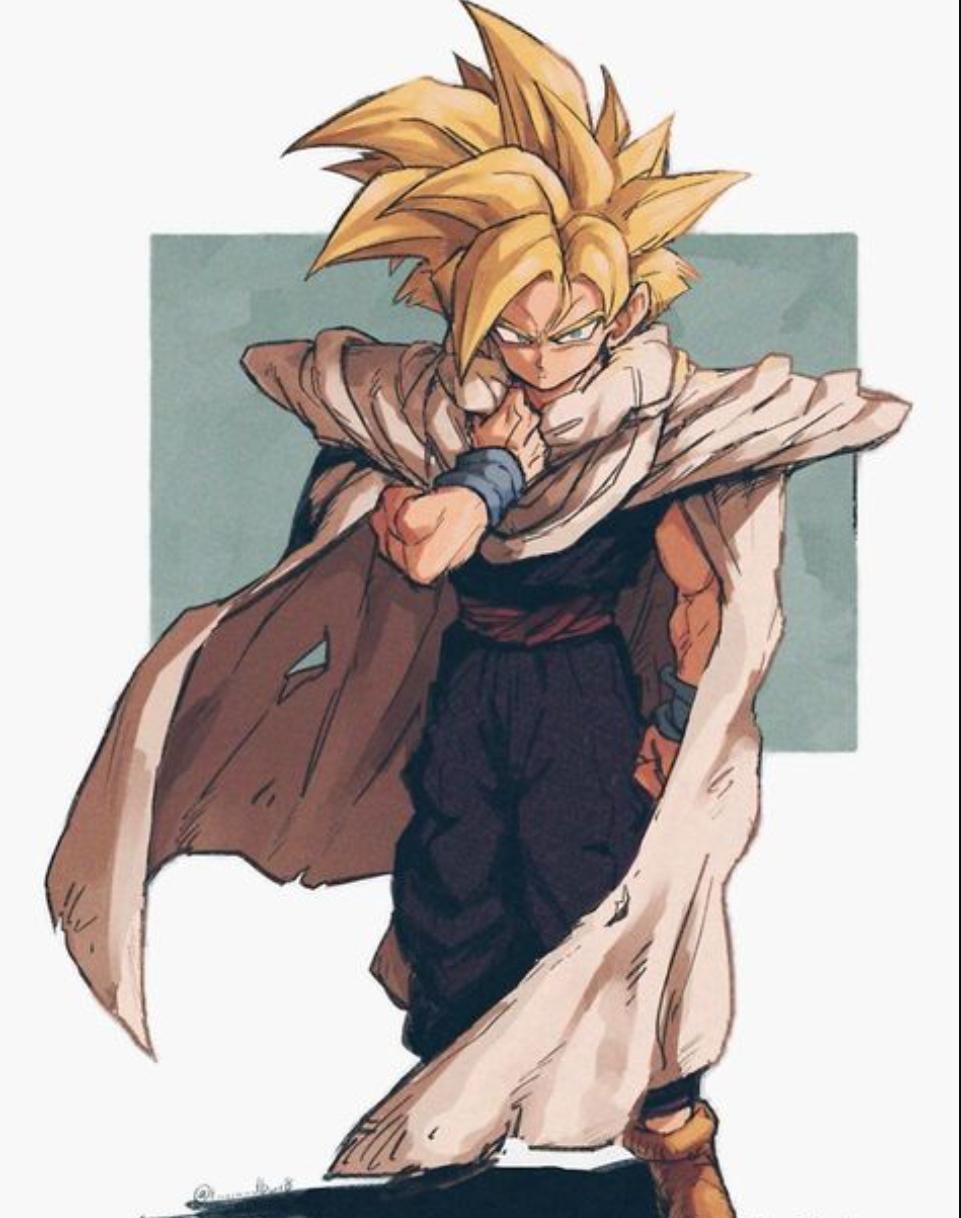
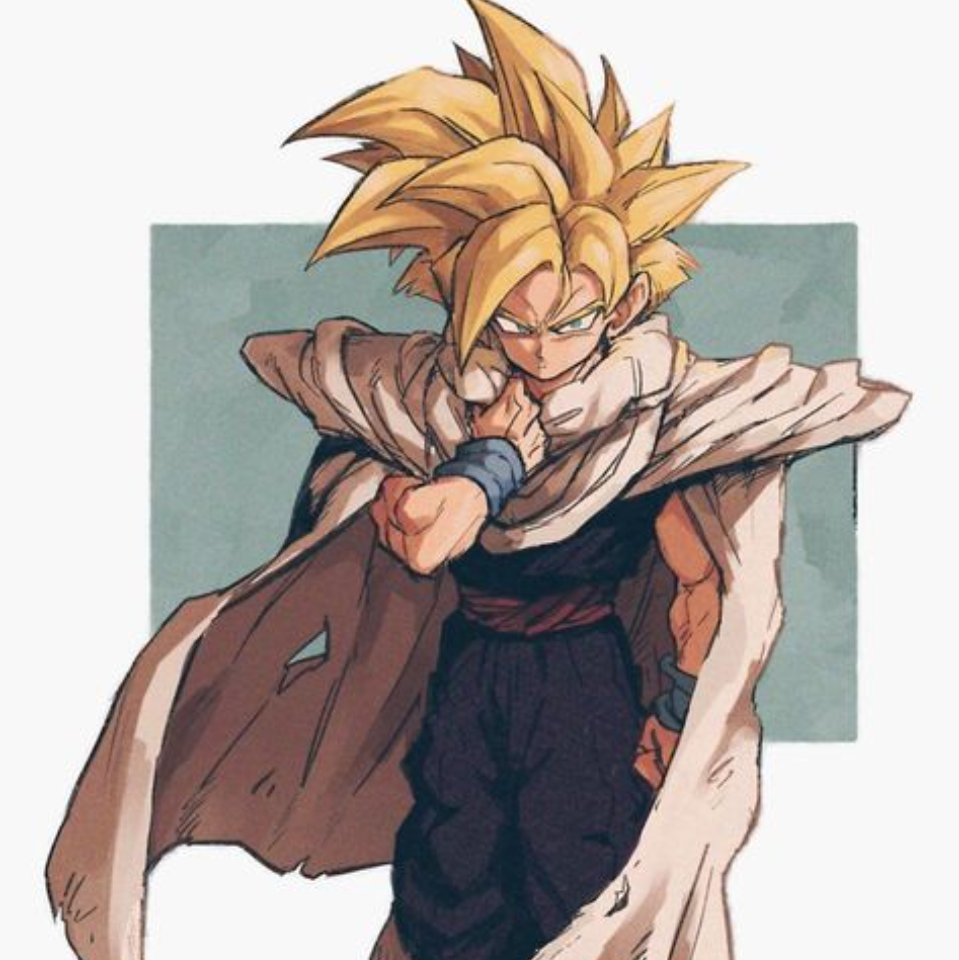
fixed the styling for some elements and normalized image sizes. Looking good.

diff --git a/src/components/FighterCard.vue b/src/components/FighterCard.vue
@@ -13,16 +13,16 @@ export default {
   },
   computed: {
     attackFillwidth() {
-      return (this.fighter.attack / 100) * 100;
+      return (this.fighter.attack);
     },
     defenseFillwidth() {
-      return (this.fighter.defense / 100) * 100;
+      return (this.fighter.defense);
     },
     hpFillwidth() {
-      return (this.fighter.hp / 100) * 100;
+      return (this.fighter.hp);
     },
     speedFillwidth() {
-      return (this.fighter.speed / 100) * 100;
+      return (this.fighter.speed);
     },
   }
 }
@@ -31,8 +31,8 @@ export default {
 <template>
   <div>
     <v-card class="fighter-card-player">
-      <img class="fighter-image centralized" :src="fighter.imageUrl" />
-      <div class="fight-details">
+      <img class="fighter-image" :src="fighter.imageUrl" />
+      <div class="fighter-details">
         <p class="title">{{ title }}</p>
         <p>Attack</p>
         <div class="gauge-bar">
@@ -69,17 +69,10 @@ export default {
 
 <style scoped>
 .battle-card-player {
-  padding: 13px 11px;
   height: 415px;
   flex-direction: column;
   border-radius: 7px;
-/*  box-shadow: $box-shadow;*/
-}
-
-.centralized {
-  display: flex;
-  align-items: center;
-  justify-content: center;
+  box-shadow: -2px 3px 10px lightblue;
 }
 
 .title {
@@ -90,11 +83,12 @@ export default {
 }
 
 .fighter-image {
-  width: 360px;
+  width: 100%;
 }
 
 .fighter-details {
   font-size: 14px;
+  padding: 14px;
 }
 
 .gauge-bar {
@@ -115,15 +109,4 @@ export default {
   left: 0;
 }
 
-/*.greetings h1,
-.greetings h3 {
-  text-align: center;
-}
-
-@media (min-width: 1024px) {
-  .greetings h1,
-  .greetings h3 {
-    text-align: left;
-  }
-}*/
 </style>

diff --git a/src/pages/DragonballFight.vue b/src/pages/DragonballFight.vue
@@ -16,7 +16,7 @@
         :class="[{ inactive: !selectedFighterId }]"
         @click="startFight"
       >
-        Start Fight
+        <p id="btn-content">Start Fight</p>
       </v-btn>
       <FighterCard title="Computer" :fighter="computerFighter" />
     </div>
@@ -120,7 +120,7 @@ export default {
   flex-direction: column;
   gap: 35px;
   margin: 0 auto;
-  max-width: 814px;
+  max-width: 100%;
 }
 
 .main-title {
@@ -144,15 +144,14 @@ export default {
   font-size: 18px;
   line-height: 21px;
   text-transform: capitalize;
-  padding: 12px 30px;
-/*  box-shadow: $box-shadow-button;*/
+  box-shadow: 0px 2px 2px whitesmoke;
   pointer-events: visible;
-  height: 45px;
-  background-color: darkblue;
+  background-color: #23a0a0;;
+  height: 20px;
 }
 
 .v-btn--disabled.start-battle-button.inactive {
-  background-color: darkgreen;
+  background-color: darkslategray;
   color: white;
 }
 </style>

diff --git a/src/components/WinnerDisplay.vue b/src/components/WinnerDisplay.vue
@@ -13,21 +13,18 @@ export default {
       required: false,
     },
   },
-  computed: {
-    // ...mapState("monster", ["battleWinner"]),
-  },
 };
 </script>
 
 <style scoped>
 
 .winner-box {
-/*  background: $winner-background;*/
-  border: 1px solid black;
-/*  box-shadow: $box-shadow;*/
+  background: darkslateblue;
+  border: 1px solid darkblue;
+  box-shadow: 0px 4px 4px lightslategray;
   border-radius: 4px;
   padding: 17px 28px;
-  align-content: center;
+  text-align: center;
 }
 
 .message-winner {
@@ -35,5 +32,6 @@ export default {
   font-weight: 400;
   font-size: 22px;
   line-height: 26px;
+  color:whitesmoke;
 }
 </style>

diff --git a/src/components/FighterList.vue b/src/components/FighterList.vue
@@ -86,7 +86,7 @@ export default {
   box-sizing: border-box;
   border-radius: 7px;
   padding: 7px !important;
-/*  box-shadow: $box-shadow;*/
+  box-shadow: -2px 3px 10px lightslategray;
   transition: all 0.2s ease-in-out;
 }
 

diff --git a/src/App.vue b/src/App.vue
@@ -12,3 +12,13 @@ export default {
 <template>
   <DragonballFight />
 </template>
+
+<style>
+
+#app {
+  width: 80%;
+  margin: 0 auto;
+  padding: 0;
+}
+
+</style>
